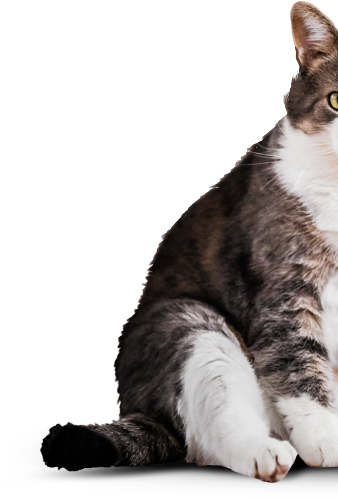
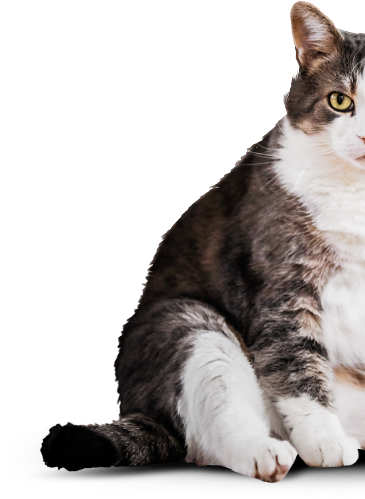
сделал десктопный макет главной страницы

Changed region(s): [[0.0888, 0.0, 1.0, 0.992], [0.2663, 0.9319, 0.3254, 0.9619]]

diff --git a/source/index.html b/source/index.html
@@ -152,16 +152,18 @@
                 <p class="results__cost">Затраты на питание: <span class="results__price">15 000 руб.</span></p>
               </div>
               <div class="results__cat">
-                <picture>
-                  <source media="(min-width: 768px)" srcset="img/before-desktop.png" />
-                  <source media="(min-width: 1300px)" srcset="img/before-desktop.png" />
-                  <img class="results__cat-image" src="img/before-mobile@1x.png" width="311" height="232" alt="Черно-белый кот" />
-                </picture>
-                <picture>
-                  <source media="(min-width: 768px)" srcset="img/after-tablet.png" />
-                  <source media="(min-width: 1300px)" srcset="img/after-desktop.png" />
-                  <img class="results__cat-image-after" src="img/after-mobile@1x.png" width="311" height="232"
-                    alt="Черно-белый кот" /></picture>
+                <div class="results__cat-pictures">
+                  <picture>
+                    <source media="(min-width: 768px)" srcset="img/before-desktop.png" />
+                    <source media="(min-width: 1300px)" srcset="img/before-desktop.png" />
+                    <img class="results__cat-image" src="img/before-mobile@1x.png" width="311" height="232" alt="Черно-белый кот" />
+                  </picture>
+                  <picture>
+                    <source media="(min-width: 768px)" srcset="img/after-tablet.png" />
+                    <source media="(min-width: 1300px)" srcset="img/after-desktop.png" />
+                    <img class="results__cat-image-after" src="img/after-mobile@1x.png" width="311" height="232" alt="Черно-белый кот" />
+                  </picture>
+                </div>
                 <div class="results__range">
                   <button class="results__range-button" type="button">Было</button>
                   <span class="results__progress-bar results__progress-bar--start"></span>

diff --git a/source/sass/blocks/results.scss b/source/sass/blocks/results.scss
@@ -215,27 +215,27 @@
     }
   }
 
-  .results__cat-image {
+  .results__cat-pictures {
     position: relative;
-    transform: translateX(-50%);
     z-index: 1;
 
-    width: 338px;
-    height: 499px;
+    width: 636px;
+    display: flex;
+    align-items: center;
     margin-left: auto;
     margin-right: auto;
-    margin-bottom: 18px;
+  }
+
+  .results__cat-image {
+    width: 338px;
   }
 
   .results__cat-image-after {
-    position: absolute;
+    position: relative;
     top: -18px;
-    right: 50%;
-    transform: translateX(-50%);
 
     display: block;
     width: 298px;
-    height: auto;
   }
 
   .results__item {
@@ -266,36 +266,48 @@
   .results__cat {
     position: absolute;
     right: 0;
-    top: -240%;
-    
-    width: 100%;
+    top: -415px;
+
     padding-bottom: 0;
 
-    &::before,
+    &::before {
+      display: none;
+    }
+
     &::after {
       display: none;
     }
   }
 
+  .results__cat-pictures {
+    position: relative;
+    z-index: 1;
+    right: 0;
+
+    margin-bottom: 29px;
+  }
+
+  .results__range {
+    justify-content: flex-end;
+  }
+
   .results__cat-image {
-    transform: none;
-    position: absolute;
-    right: 271px;
-    top: 0;
+    position: relative;
+    right: 12px;
 
     width: 365px;
     height: 499px;
-    margin-left: 0;
-    margin-right: 0;
+    margin-bottom: 0;
   }
 
   .results__cat-image-after {
-    transform: none;
-    right: 0;
-    top: 0;
+    position: relative;
+    top: -11px;
+    right: 37px;
 
-    width: 690px;
+    display: block;
     height: 517px;
+    width: 271px;
   }
 
   .results__info {

diff --git a/source/sass/blocks/example.scss b/source/sass/blocks/example.scss
@@ -62,6 +62,19 @@
     padding-top: 71px;
     padding-bottom: 75px;
     background-color: $primary_gray;
+    position: relative;
+
+    &::after {
+      content: "";
+      bottom: 0;
+      display: block;
+      position: absolute;
+      right: 0;
+      left: auto;
+      height: 462px;
+      width: 25%;
+      background-color: #eaeaea;
+    }
   }
 
   .example__container-center {

diff --git a/source/sass/blocks/map.scss b/source/sass/blocks/map.scss
@@ -45,6 +45,19 @@
 
 @media (min-width: $desktop) {
   .map {
-    width: $container_width_desktop;
+    width: 100%;
+
+    &::after {
+      width: 113px;
+      height: 106px;
+      top: 150px;
+      left: auto;
+      right: 318px;
+      transform: none;
+    }
+  }
+
+  .map__image {
+    height: auto;
   }
 }
